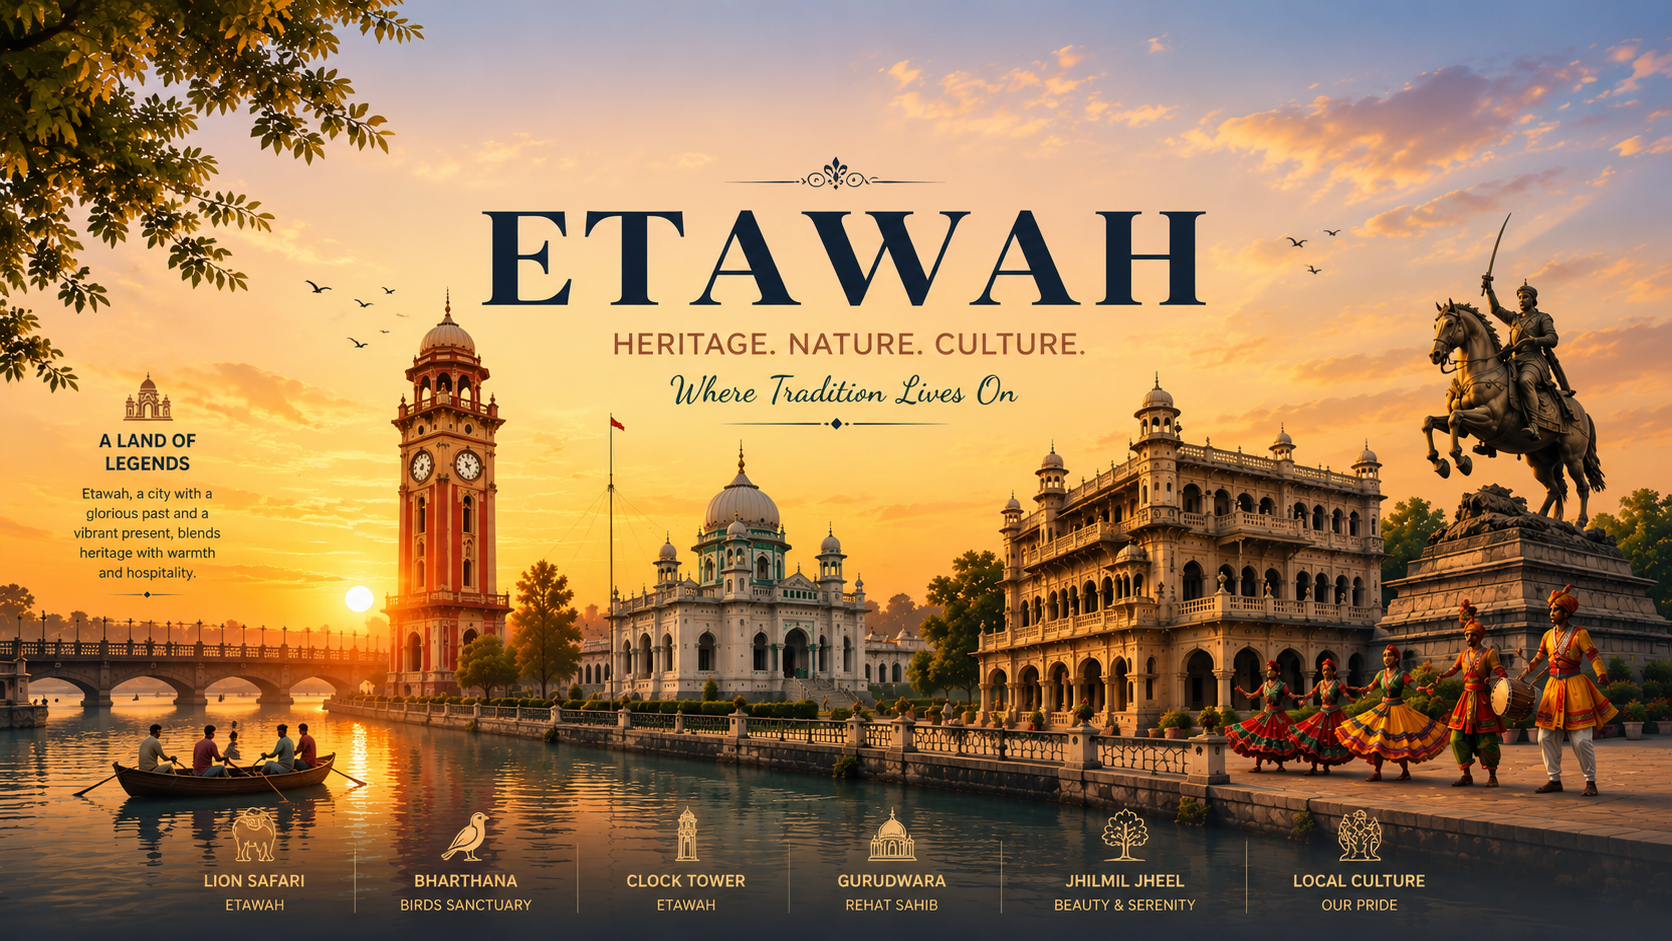
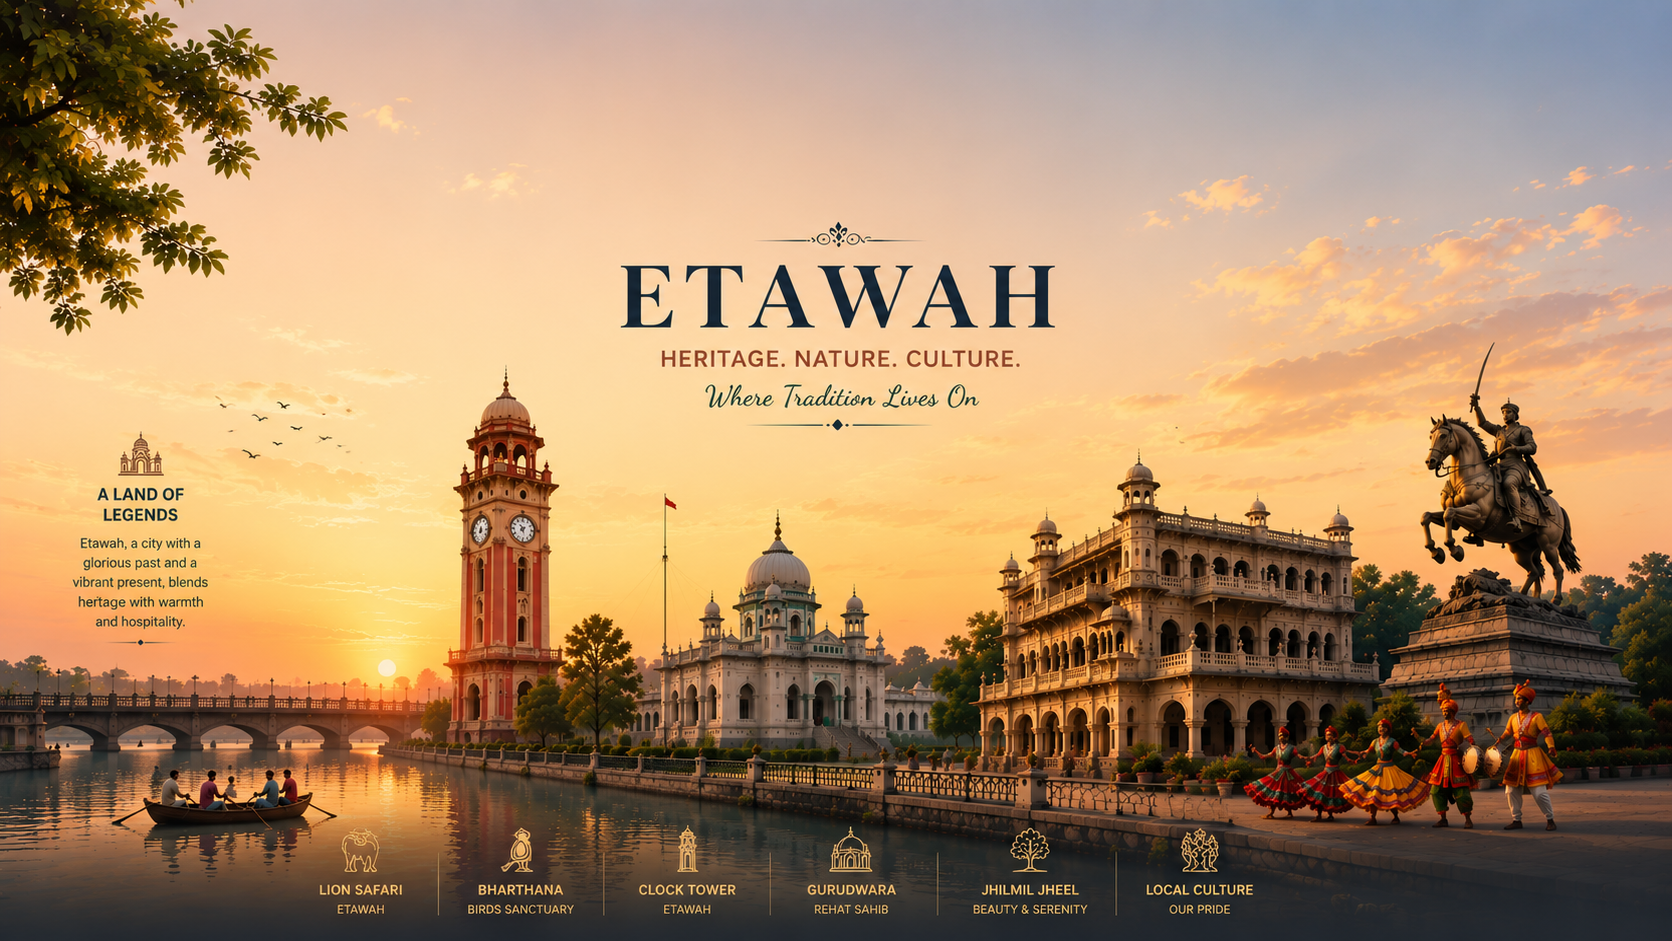
fix: add Vercel SPA rewrite configuration

diff --git a/src/components/home/Hero.jsx b/src/components/home/Hero.jsx
@@ -52,7 +52,8 @@ const Hero = () => {
             duration: 1.5,
             ease: "easeOut",
           }}
-          className="absolute inset-0 bg-cover bg-[center_30%] bg-no-repeat"
+          className="absolute inset-0 bg-cover bg-center lg:bg-[center_35%]
+           bg-no-repeat"
           style={{
             backgroundImage: `url(${heroImg})`,
           }}
@@ -83,7 +84,7 @@ const Hero = () => {
           {/* Top Row: Tabs & Post Property */}
           <div className="flex items-center justify-between px-2 sm:px-6 border-b border-gray-100 bg-white">
             {/* Tabs */}
-            <div className="flex items-center gap-2 sm:gap-6 h-[60px] overflow-auto scrollbar-none">
+            <div className="flex items-center gap-2 sm:gap-6 h-[60px] overflow-x-scroll no-scrollbar">
               {["Buy", "Rent", "New Launch", "Commercial", "Plots/Land", "Projects"].map((tab) => (
                 <button
                   key={tab}
